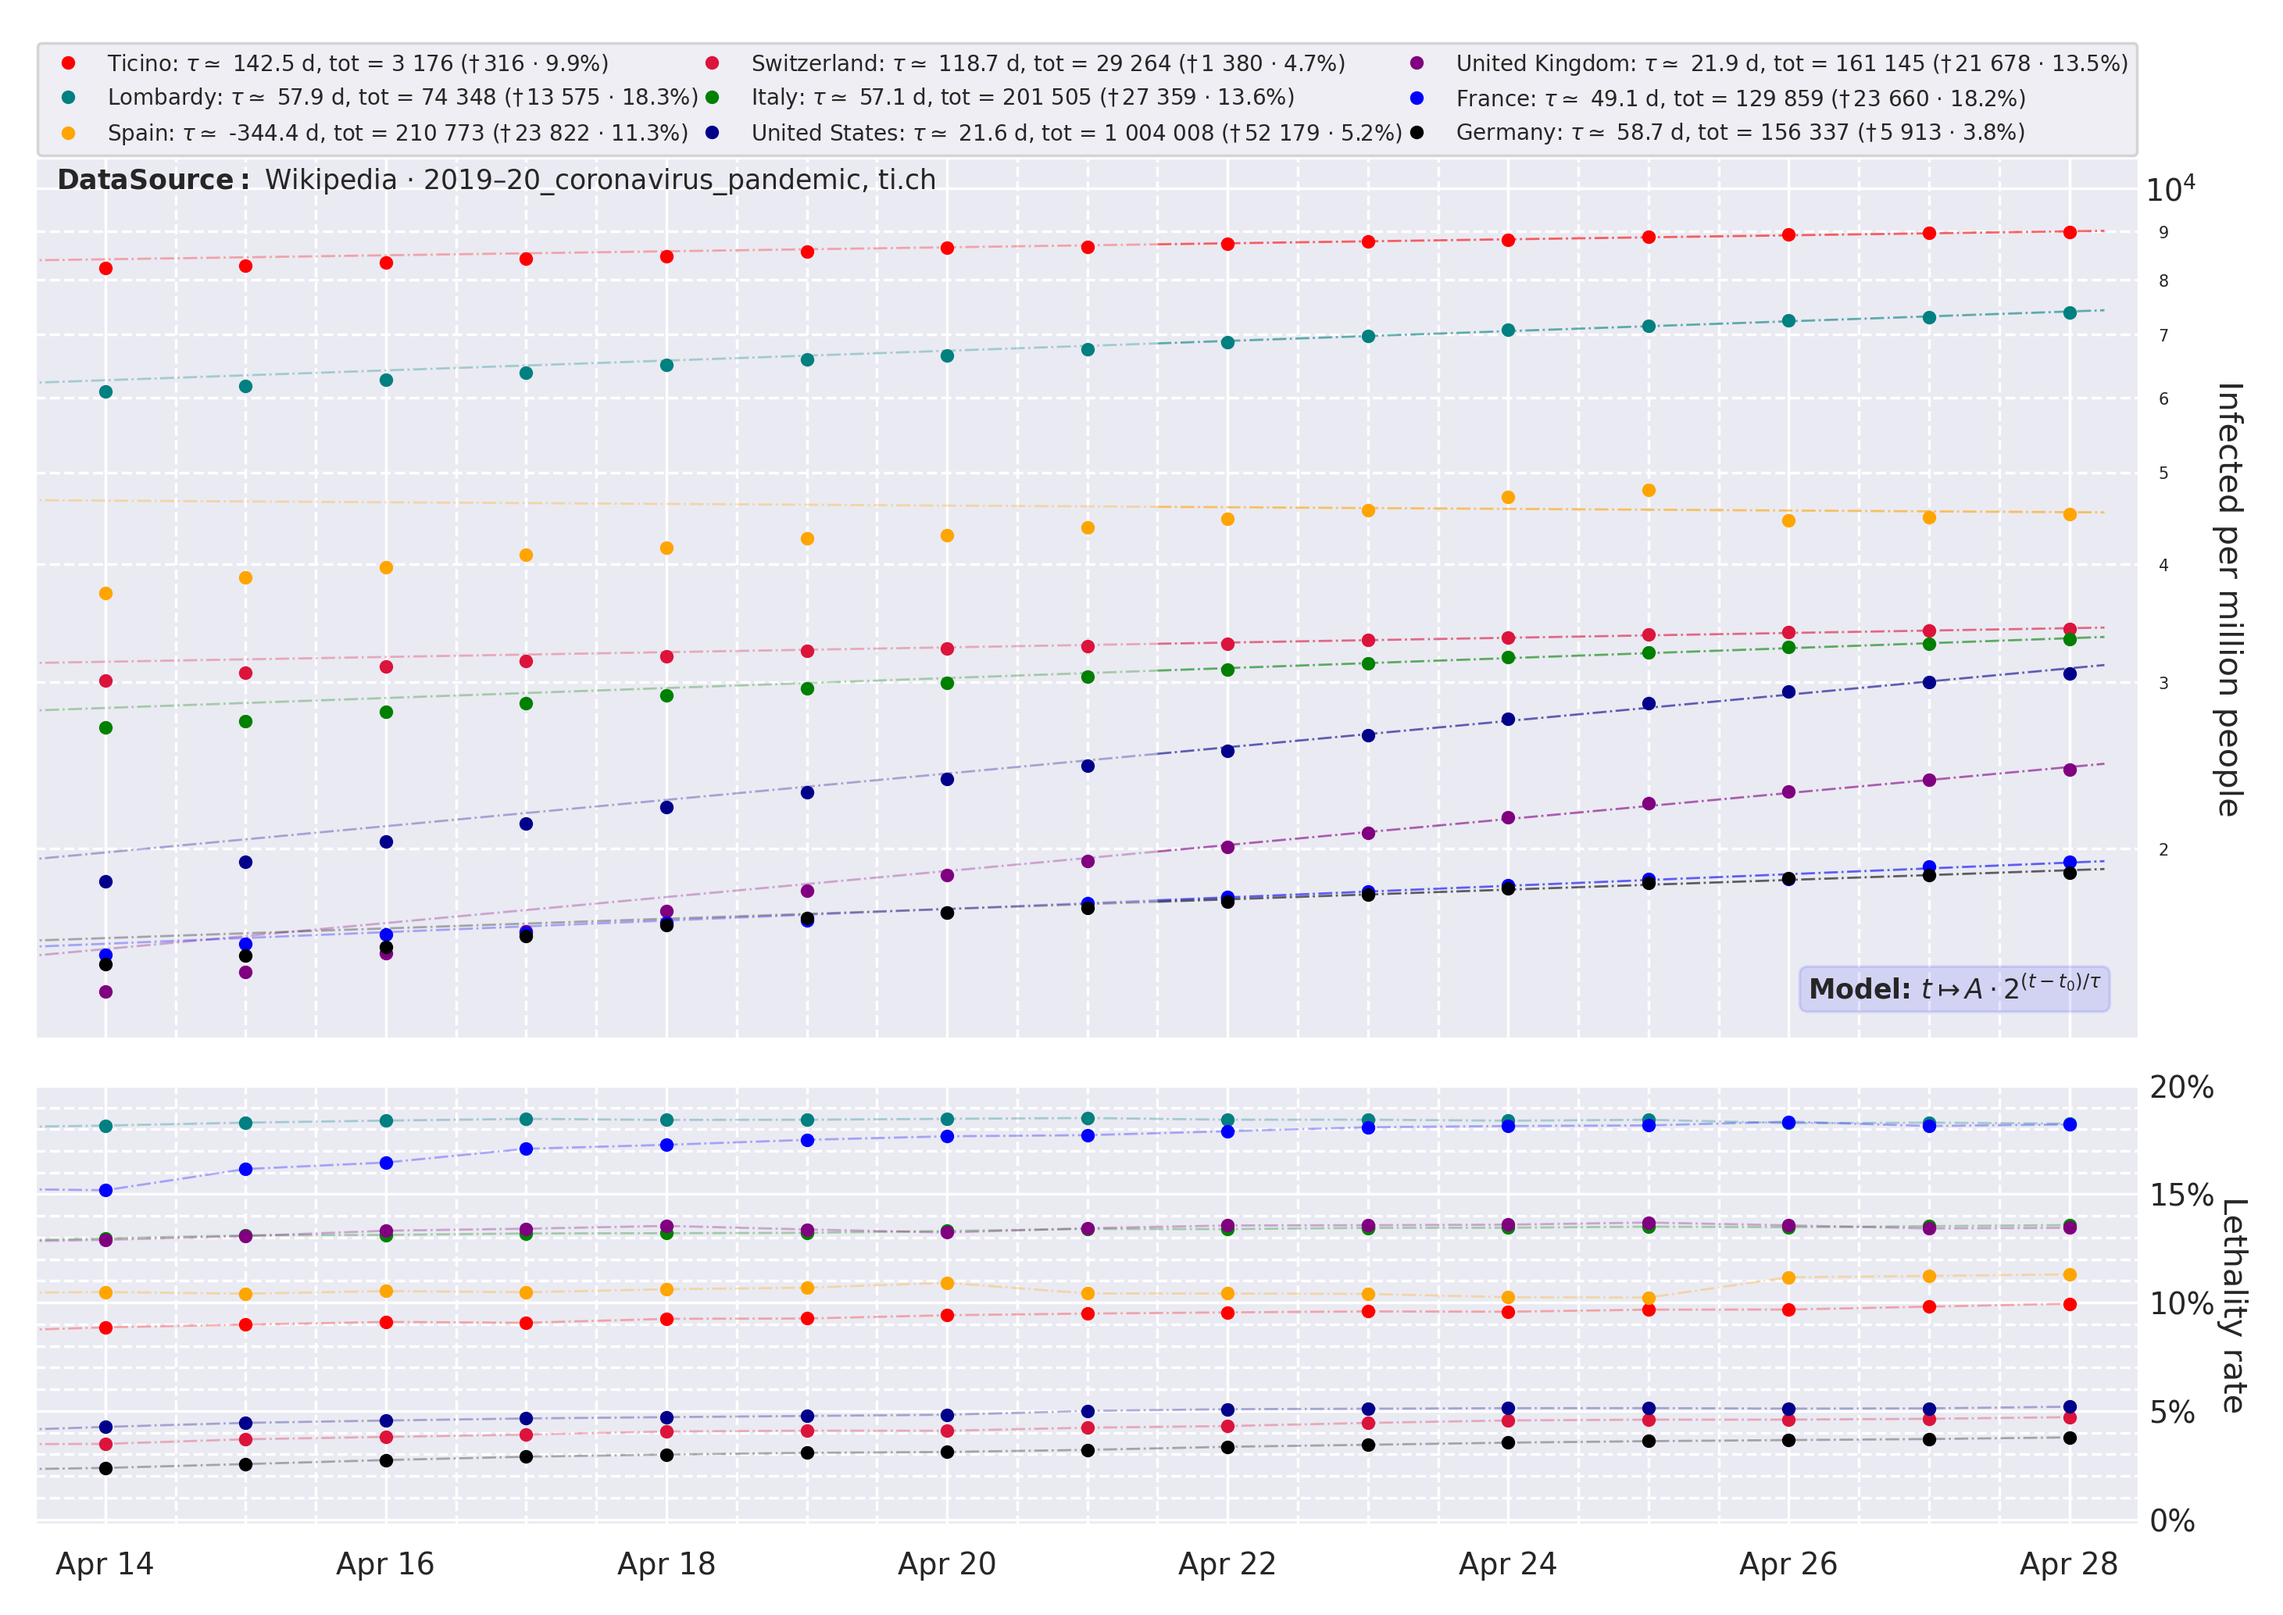
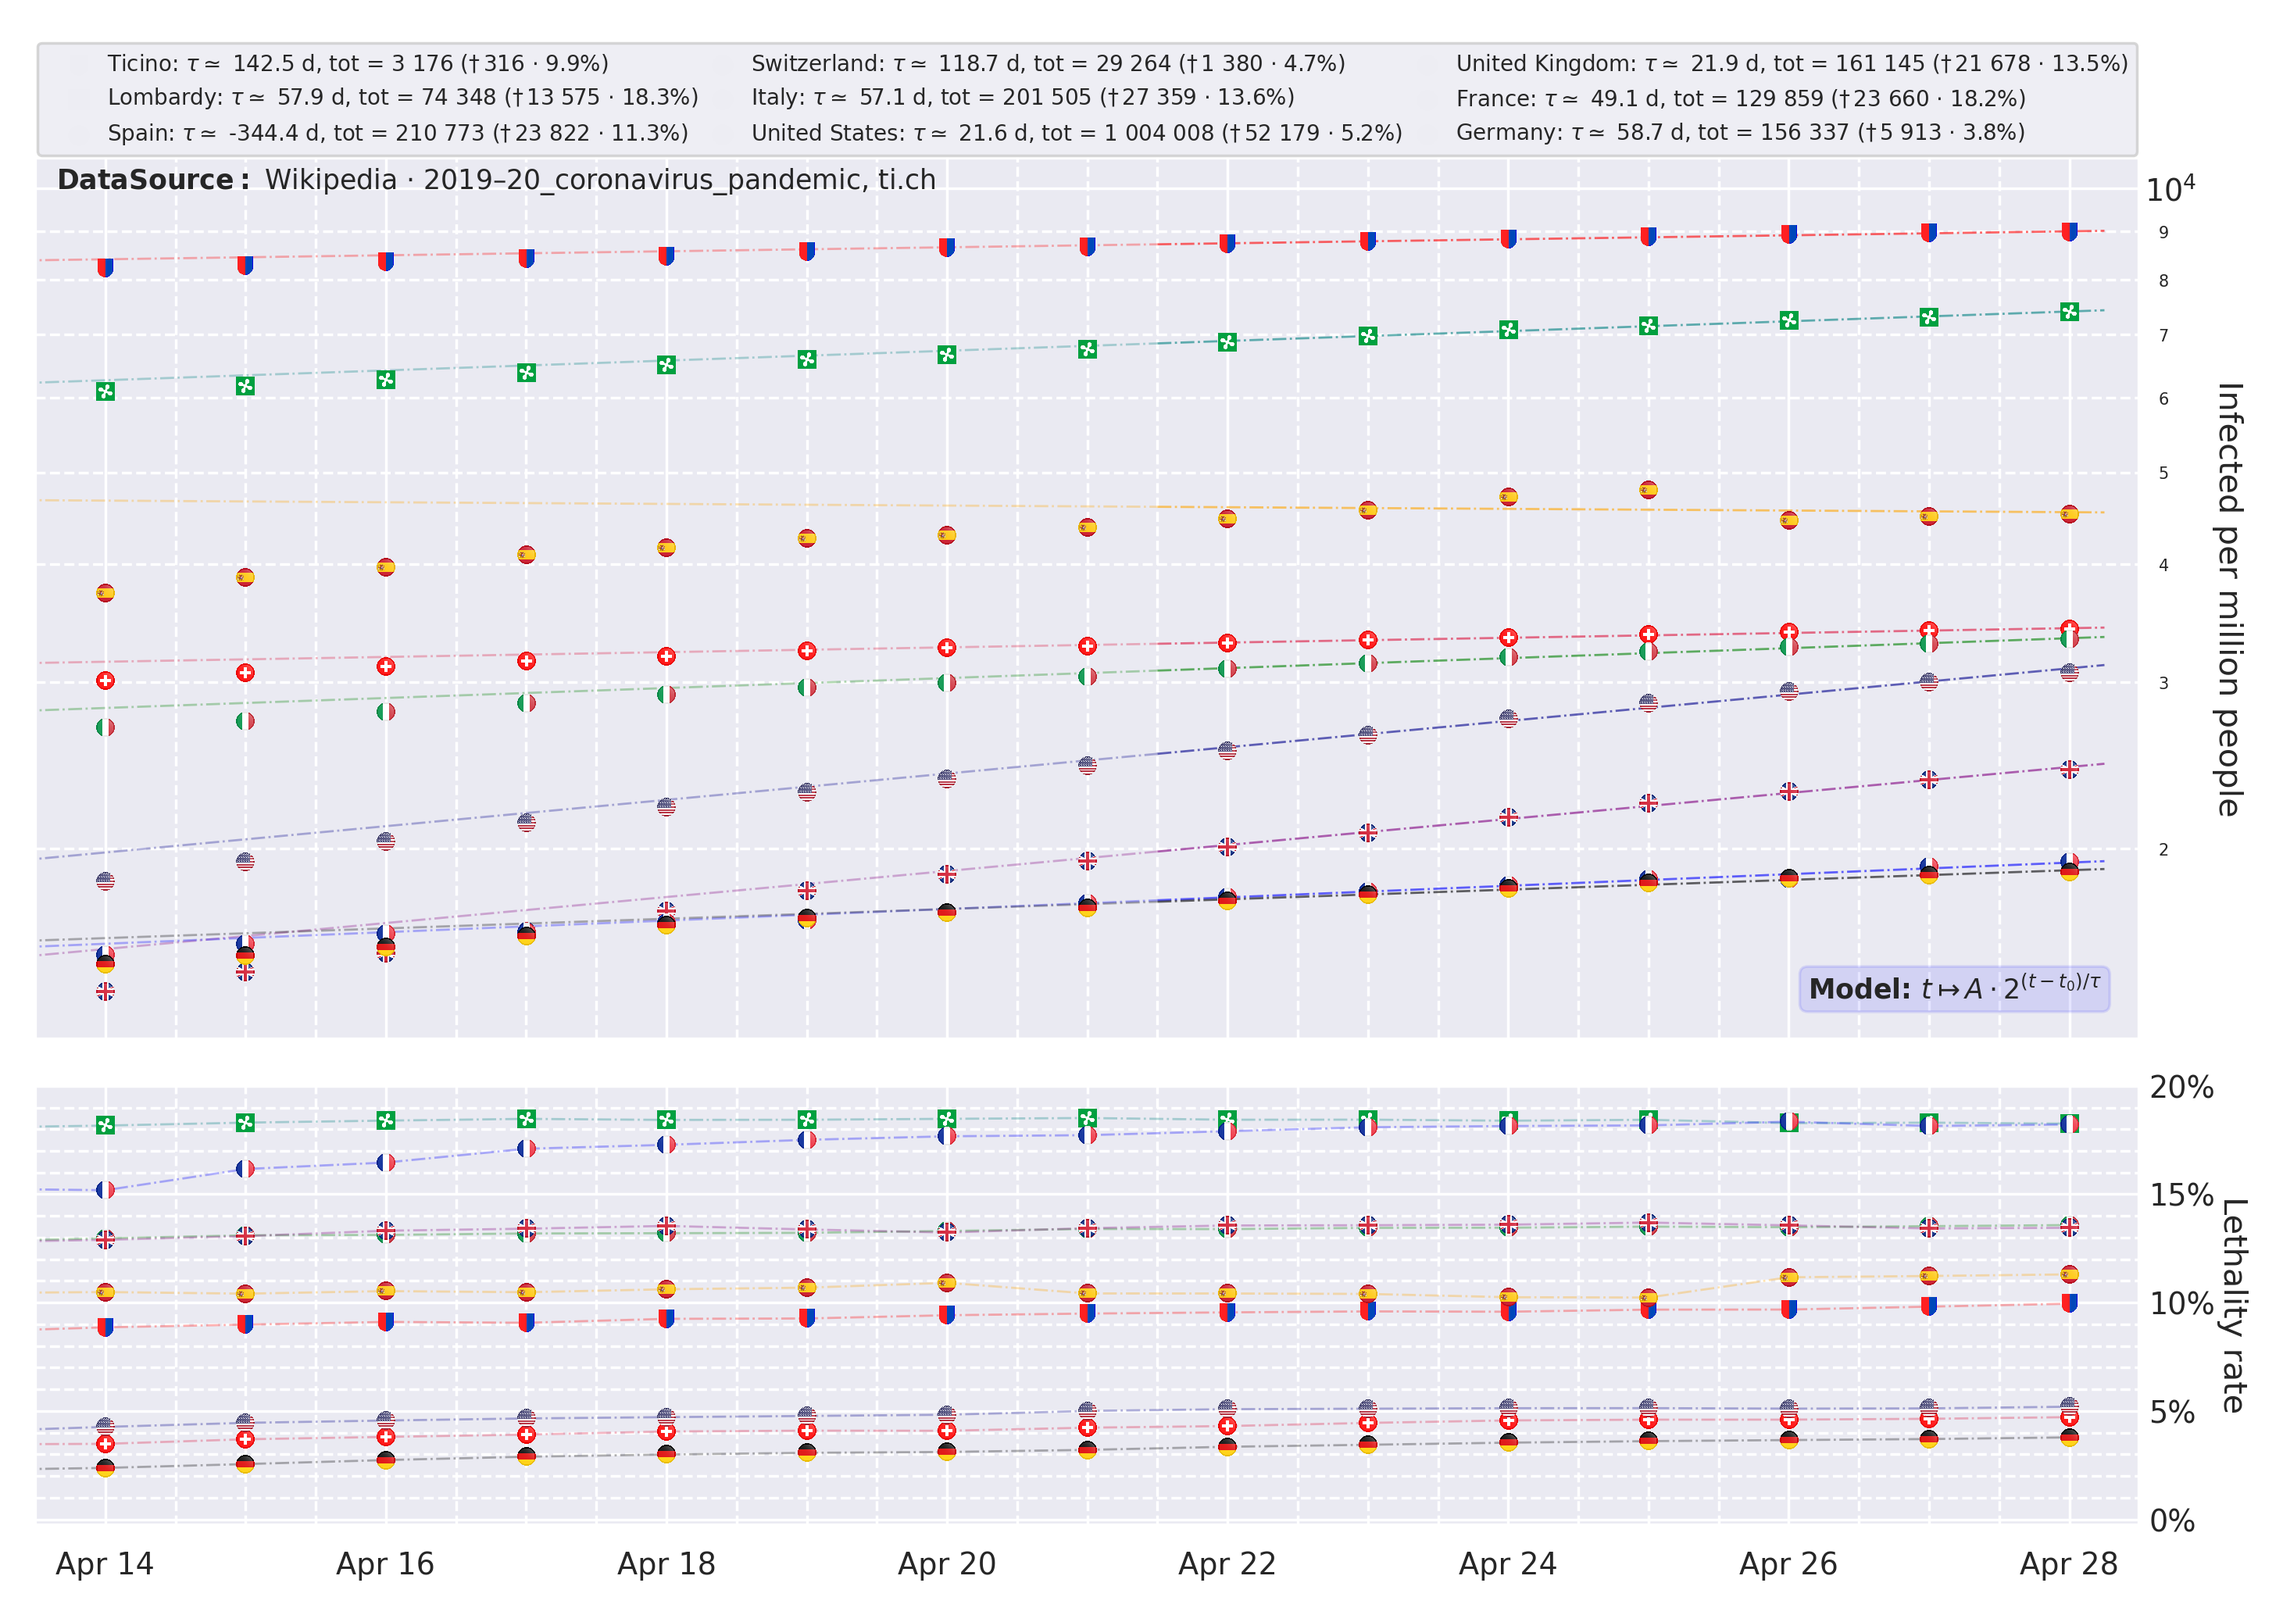
minor commit

diff --git a/Coronavirus/coronavirus.py b/Coronavirus/coronavirus.py
@@ -1,19 +1,95 @@
 import os.path
 import pandas as pd
+from pandas.plotting import register_matplotlib_converters
+import numpy as np
 import matplotlib.pyplot as plt
 import matplotlib.dates as mdates
 import matplotlib.ticker as ticker
-import numpy as np
-from sklearn.linear_model import LinearRegression
-from pandas.plotting import register_matplotlib_converters
-import seaborn as sns
-from corona_libs import *
 from matplotlib.ticker import FormatStrFormatter
+from matplotlib.offsetbox import OffsetImage, AnnotationBbox, Bbox
+from matplotlib.transforms import TransformedBbox
+from matplotlib.image import BboxImage
+from matplotlib.legend_handler import HandlerBase
+from matplotlib._png import read_png
+from sklearn.linear_model import LinearRegression
+import seaborn as sns
 sns.set()
 register_matplotlib_converters()
 
+
+# stackoverflow.com/questions/26029592/insert-image-in-matplotlib-legend
+class ImageHandler(HandlerBase):
+    def create_artists(self, legend, orig_handle,
+                       xdescent, ydescent, width, height, fontsize,
+                       trans):
+
+        # enlarge the image by these margins
+        sx, sy = self.image_stretch
+
+        # create a bounding box to house the image
+        bb = Bbox.from_bounds(xdescent - sx,
+                              ydescent - sy,
+                              width + sx,
+                              height + sy)
+
+        tbb = TransformedBbox(bb, trans)
+        image = BboxImage(tbb)
+        image.set_data(self.image_data)
+
+        self.update_prop(image, orig_handle, legend)
+
+        return [image]
+
+    def set_image(self, image_path, image_stretch=(0, 0)):
+        self.image_data = plt.imread(image_path)/250
+        self.image_stretch = image_stretch
+
+
+def plot_images(x, y, flagname, scale=4, xshift=0, alpha=None, ax=None):
+    ax = ax or plt.gca()
+
+    image = plt.imread(flagname)
+    img = []
+    for i in range(image.shape[-1]):
+        img.append(np.pad(image[:, :, i], ((12, 12), (12, 12))))
+    image = np.swapaxes(np.swapaxes(np.array(img), 0, 1), 1, 2)
+
+    for xi, yi in zip(x, y):
+        im = OffsetImage(image, zoom=scale/ax.figure.dpi, alpha=alpha)
+        im.image.axes = ax
+        ab = AnnotationBbox(im, (xi + xshift, yi), frameon=False)
+        ax.add_artist(ab)
+    return None
+
+
+def plot_images2(xi, yi, flagname, scale=.04, xshift=.0135, ax=None):
+    ax = ax or plt.gca()
+
+    # Flag coords are given in axes coords to avoid log scale distorsion
+    # https://matplotlib.org/tutorials/advanced/transforms_tutorial.html
+    # It needs to be executed after tight_layout()
+    flagCoord = ax.transData.transform((xi, yi))
+    flagCoord = ax.transAxes.inverted().transform(flagCoord)
+
+    figW, figH = ax.get_figure().get_size_inches()
+    _, _, w, h = ax.get_position().bounds
+    disp_ratio = figH*h/(figW*w)
+
+    im = image.imread(flagname)
+    ax.imshow(im, aspect="auto", zorder=10, transform=ax.transAxes,
+              extent=(flagCoord[0] + xshift - scale/2*disp_ratio,
+                      flagCoord[0] + xshift + scale/2*disp_ratio,
+                      flagCoord[1] - scale/2,
+                      flagCoord[1] + scale/2))
+    return None
+
+
+def spacing(n):
+    return "{:,d}".format(int(n)).replace(",", " ")
+
+
 # 3 modes: 0 no flags, 1 representative flags, 2 flag markers
-flags = 0
+flags = 2
 
 country_numbers = 9  # number of countries to display (max 9)
 
